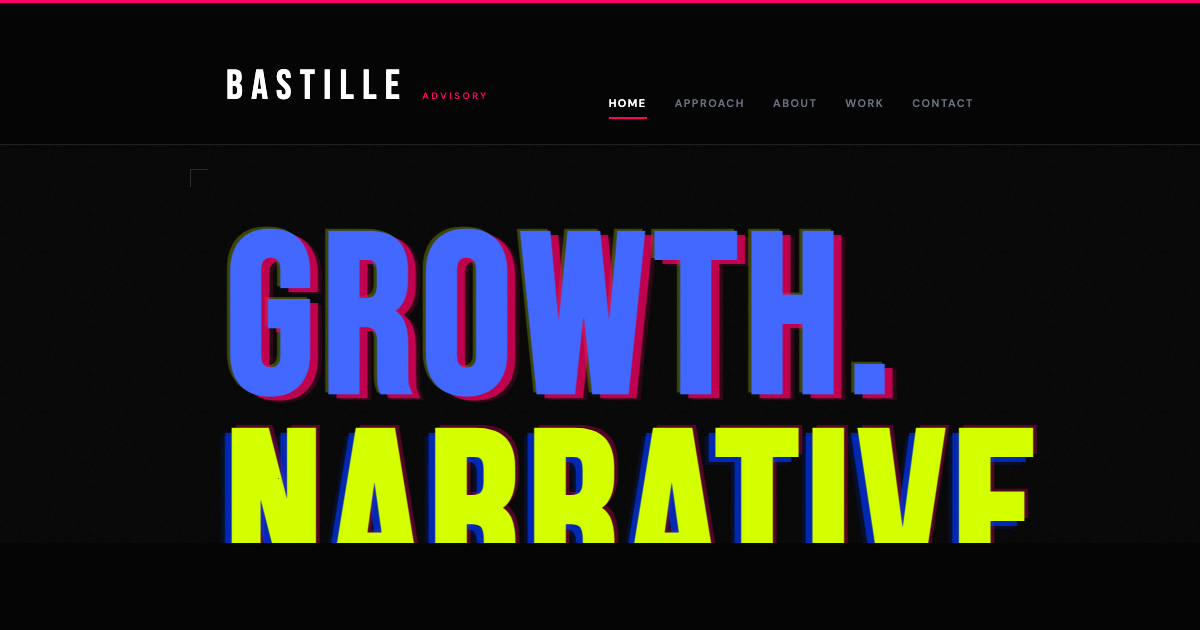
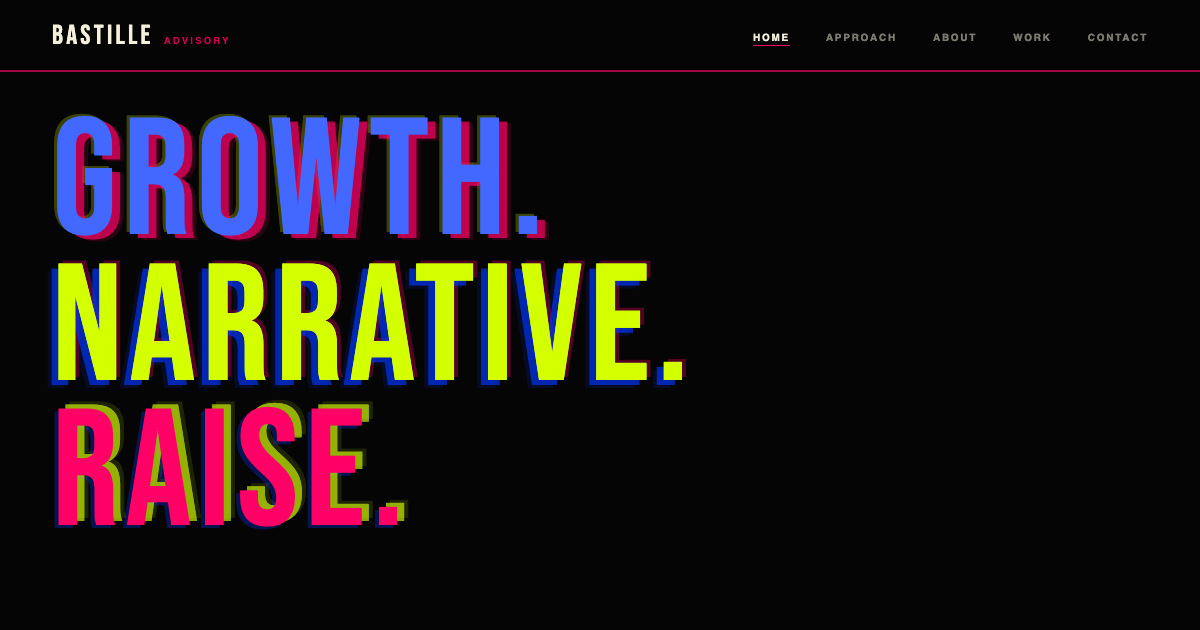
Update OG image to show all three hero words with nav
Replaces single-page screenshot with a dedicated og-image.html
sized precisely at 1200×630 — includes BASTILLE nav bar and all
three brand words (GROWTH. NARRATIVE. RAISE.) with riso glitch effect.

diff --git a/og-image.html b/og-image.html
@@ -1,0 +1,130 @@
+<!DOCTYPE html>
+<html lang="en">
+<head>
+  <meta charset="UTF-8">
+  <meta name="viewport" content="width=1200">
+  <link href="https://fonts.googleapis.com/css2?family=Bebas+Neue&family=DM+Sans:wght@400;600&display=swap" rel="stylesheet">
+  <style>
+    * { margin: 0; padding: 0; box-sizing: border-box; }
+    body {
+      width: 1200px;
+      height: 630px;
+      overflow: hidden;
+      background: #050505;
+      font-family: 'DM Sans', sans-serif;
+    }
+
+    /* Nav */
+    nav {
+      display: flex;
+      align-items: center;
+      justify-content: space-between;
+      padding: 0 52px;
+      height: 72px;
+      border-bottom: 1px solid rgba(255,255,255,0.08);
+      position: relative;
+    }
+    nav::after {
+      content: '';
+      position: absolute;
+      bottom: -1px;
+      left: 0;
+      width: 100%;
+      height: 2px;
+      background: #FF0066;
+      opacity: 0.6;
+    }
+    .nav-brand {
+      display: flex;
+      align-items: baseline;
+      gap: 10px;
+    }
+    .nav-brand-name {
+      font-family: 'Bebas Neue', sans-serif;
+      font-size: 1.7rem;
+      letter-spacing: 0.12em;
+      color: #F5F0DC;
+    }
+    .nav-brand-sub {
+      font-size: 0.6rem;
+      font-weight: 600;
+      letter-spacing: 0.22em;
+      text-transform: uppercase;
+      color: #FF0066;
+      opacity: 0.8;
+    }
+    .nav-links {
+      display: flex;
+      gap: 36px;
+      list-style: none;
+    }
+    .nav-links li a {
+      font-size: 0.62rem;
+      font-weight: 600;
+      letter-spacing: 0.18em;
+      text-transform: uppercase;
+      color: rgba(245,240,220,0.5);
+      text-decoration: none;
+    }
+    .nav-links li.active a {
+      color: #F5F0DC;
+      border-bottom: 1.5px solid #FF0066;
+      padding-bottom: 2px;
+    }
+
+    /* Hero */
+    .hero {
+      padding: 40px 52px 0;
+    }
+    .hero-headline {
+      font-family: 'Bebas Neue', sans-serif;
+      font-size: 13.8vw;
+      line-height: 0.88;
+      letter-spacing: 0.04em;
+    }
+    .hl-blue {
+      color: #4268FF;
+      text-shadow:
+        8px 4px 0 rgba(255, 0, 102, 0.7),
+        -3px -2px 0 rgba(212, 255, 0, 0.25),
+        12px 6px 0 rgba(255, 0, 102, 0.15);
+    }
+    .hl-lime {
+      color: #D4FF00;
+      text-shadow:
+        -7px 5px 0 rgba(0, 56, 255, 0.65),
+        4px -3px 0 rgba(255, 0, 102, 0.3),
+        -11px 8px 0 rgba(0, 56, 255, 0.12);
+    }
+    .hl-pink {
+      color: #FF0066;
+      text-shadow:
+        7px -4px 0 rgba(212, 255, 0, 0.65),
+        -4px 3px 0 rgba(0, 56, 255, 0.3),
+        11px -7px 0 rgba(212, 255, 0, 0.12);
+    }
+  </style>
+</head>
+<body>
+  <nav>
+    <div class="nav-brand">
+      <span class="nav-brand-name">BASTILLE</span>
+      <span class="nav-brand-sub">Advisory</span>
+    </div>
+    <ul class="nav-links">
+      <li class="active"><a href="#">HOME</a></li>
+      <li><a href="#">APPROACH</a></li>
+      <li><a href="#">ABOUT</a></li>
+      <li><a href="#">WORK</a></li>
+      <li><a href="#">CONTACT</a></li>
+    </ul>
+  </nav>
+  <div class="hero">
+    <div class="hero-headline">
+      <span class="hl-blue">GROWTH.</span><br>
+      <span class="hl-lime">NARRATIVE.</span><br>
+      <span class="hl-pink">RAISE.</span>
+    </div>
+  </div>
+</body>
+</html>
